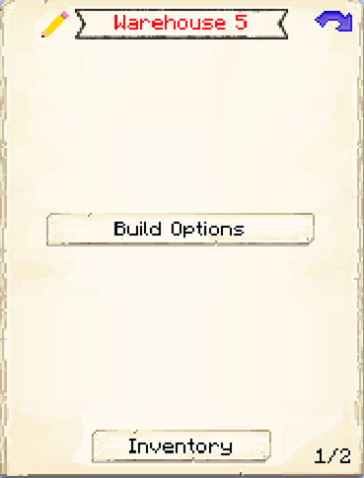
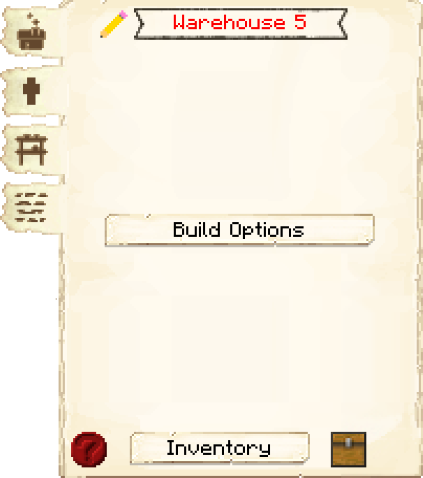
Updates warehouse gui etc (#704)
* Add files via upload

Just two images for me to add DO info on shingles page

* Delete cutter.PNG

* Delete mouseover.PNG

* Add files via upload

two images for updated shingles page

* Delete cutter.png

* Delete mouseover.png

* Add files via upload

* Update shingles.md

Ok! Let's see if I got it right this time?

Hopefully this will add some info for DO shingles at the bottom of the page, and HOPEFULLY the text at the top will link to the bottom!

* Update shingles.md

* Add files via upload

updated warehouse gui

* Add files via upload

* Update warehouse.md

Changed region(s): [[0.0, 0.0, 1.0, 1.0]]

diff --git a/source/buildings/warehouse.md b/source/buildings/warehouse.md
@@ -32,8 +32,6 @@ The level of the Warehouse will determine how many Couriers will be able to use 
 | 5 | 10 |  
 
 
-### Note: You can only have one Warehouse per colony, unless you change this in the [config file](../../source/misc/configfile).
-
 ## Warehouse GUI
 
 When accessing the Warehouse's hut block by right-clicking on it, you will see a GUI with different options:  
@@ -51,7 +49,7 @@ When accessing the Warehouse's hut block by right-clicking on it, you will see a
   </div>
 </div>  
 
-By pressing the arrow button in the top right corner of the GUI, you will be taken to page two of the GUI:  
+This is page two of the Warehouse GUI.
 
 <div class="row">
   <div class="col-sm-12 col-md">
@@ -60,8 +58,8 @@ By pressing the arrow button in the top right corner of the GUI, you will be tak
   <div class="col-sm-12 col-md">
 	<br>
     <ul>
-      <li><strong>Block of Emerald: </strong>You can increase the max amount of stacks in each rack by pressing this button. This can only be done when the Warehouse is at level 5 and you have at least one block of emerald in your inventory. The storage can be increased 5 times.</li><br>
-      <li><strong>Sort: </strong>The sort option is available when the Warehouse reaches level 3. It sorts and stacks all the items in the racks.</li>
+      <li><strong>Assigned Workers: </strong>A list of the <a href="../workers/courier">couriers</a> assigned to this warehouse.</li><br>
+      <li><strong>Manage Workers: </strong>You can choose which courier to hire at the warehouse./li>
     </ul>
   </div>
 </div>
@@ -70,12 +68,27 @@ This is page three of the Warehouse GUI.
 
 <div class="row">
   <div class="col-sm-12 col-md">
-    <img src="../../assets/images/gui/minstockgui.png" class="img-fluid mx-auto" alt="Warehouse GUI 3">
+    <img src="../../assets/images/gui/warehousegui3.png" class="img-fluid mx-auto" alt="Warehouse GUI 3">
   </div>
   <div class="col-sm-12 col-md">
 	<br>
     <ul>
       <li><strong> Minimum Stock: </strong> Use this button to tell the Warehouse to request a minimum stock to keep on hand. If a worker requests an item that is set as the minimum stock, the minimum stock will be given to them but the Warehouse will request more if it no longer has enough. Set items will be displayed above the button.</li>
+    </ul>
+    </div>
+</div>	
+
+This is page four of the Warehouse GUI.
+
+<div class="row">
+  <div class="col-sm-12 col-md">
+    <img src="../../assets/images/gui/warehousegui4.png" class="img-fluid mx-auto" alt="Warehouse GUI 4">
+  </div>
+  <div class="col-sm-12 col-md">
+	<br>
+    <ul>
+      <li><strong>Block of Emerald: </strong>You can increase the max amount of stacks in each rack by pressing this button. This can only be done when the Warehouse is at level 5 and you have at least one block of emerald in your inventory. The storage can be increased 5 times.</li><br>
+      <li><strong>Sort: </strong>The sort option is available when the Warehouse reaches level 3. It sorts and stacks all the items in the racks.</li>
     </ul>
     </div>
 </div>	
